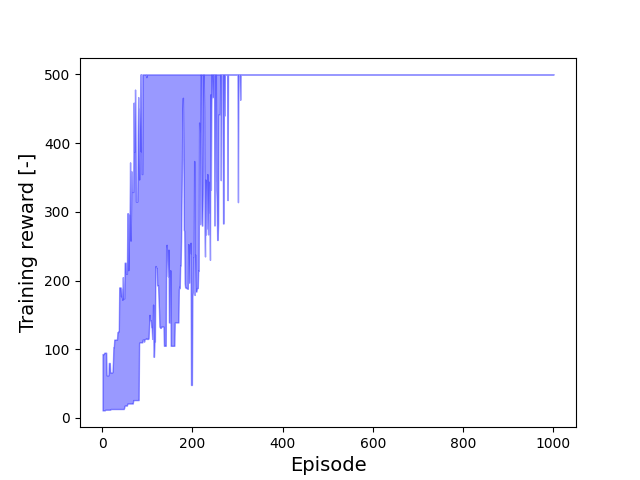
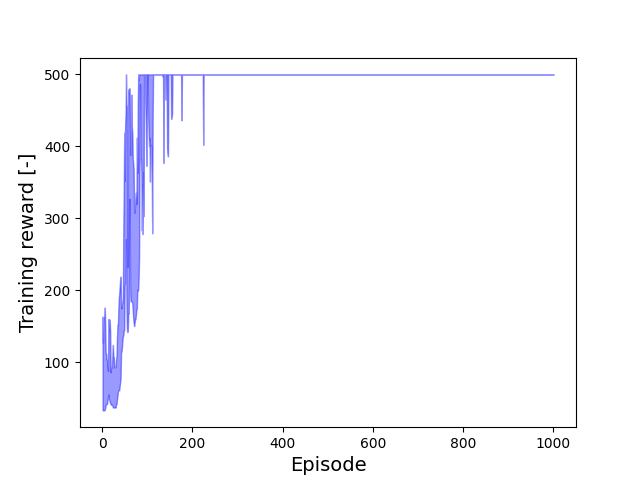
Implemented optimal policy in the agent evaluation and the "policy" method of PPO using argmax(logits) instead of drawing from the stochastic policy.

diff --git a/jaxagents/ppo.py b/jaxagents/ppo.py
@@ -692,17 +692,16 @@ class PPOAgentBase(ABC):
     """ METHODS FOR APPLYING AGENT"""
 
     @partial(jax.jit, static_argnums=(0,))
-    def policy(self, rng: PRNGKeyArray, state: STATE_TYPE) -> int:
+    def policy(self, state: STATE_TYPE) -> Int[Array, "1"]:
         """
-
-        :param rng: Random key for evaluation.
+        Evaluates the action of the optimal policy (argmax) according to the trained agent for the given state.
         :param state: The current state of the episode step in array format.
         :return:
         """
 
         if self.agent_trained:
             pi, value = self._pi_value(self.actor_training, self.critic_training, state)
-            rng, action = self._select_action(rng, pi)
+            action = jnp.argmax(pi.logits)
             return action
         else:
             raise Exception("The agent has not been trained.")
@@ -749,7 +748,7 @@ class PPOAgentBase(ABC):
 
         pi, value = self._pi_value(actor_training, critic_training, state)
 
-        rng, action = self._select_action(rng, pi)
+        action = jnp.argmax(pi.logits)
 
         rng, next_state, next_env_state, reward, terminated, info = self._env_step(rng, env_state, action)
 

diff --git a/setup.py b/setup.py
@@ -32,7 +32,7 @@ setup(
         "dev": []
     },
     python_requires=">=3.9.0",
-    version='0.1.5',
+    version='0.1.6',
     license='MIT',
     description='Implementation of Reinforcement Learning agents in JAX',
 )
